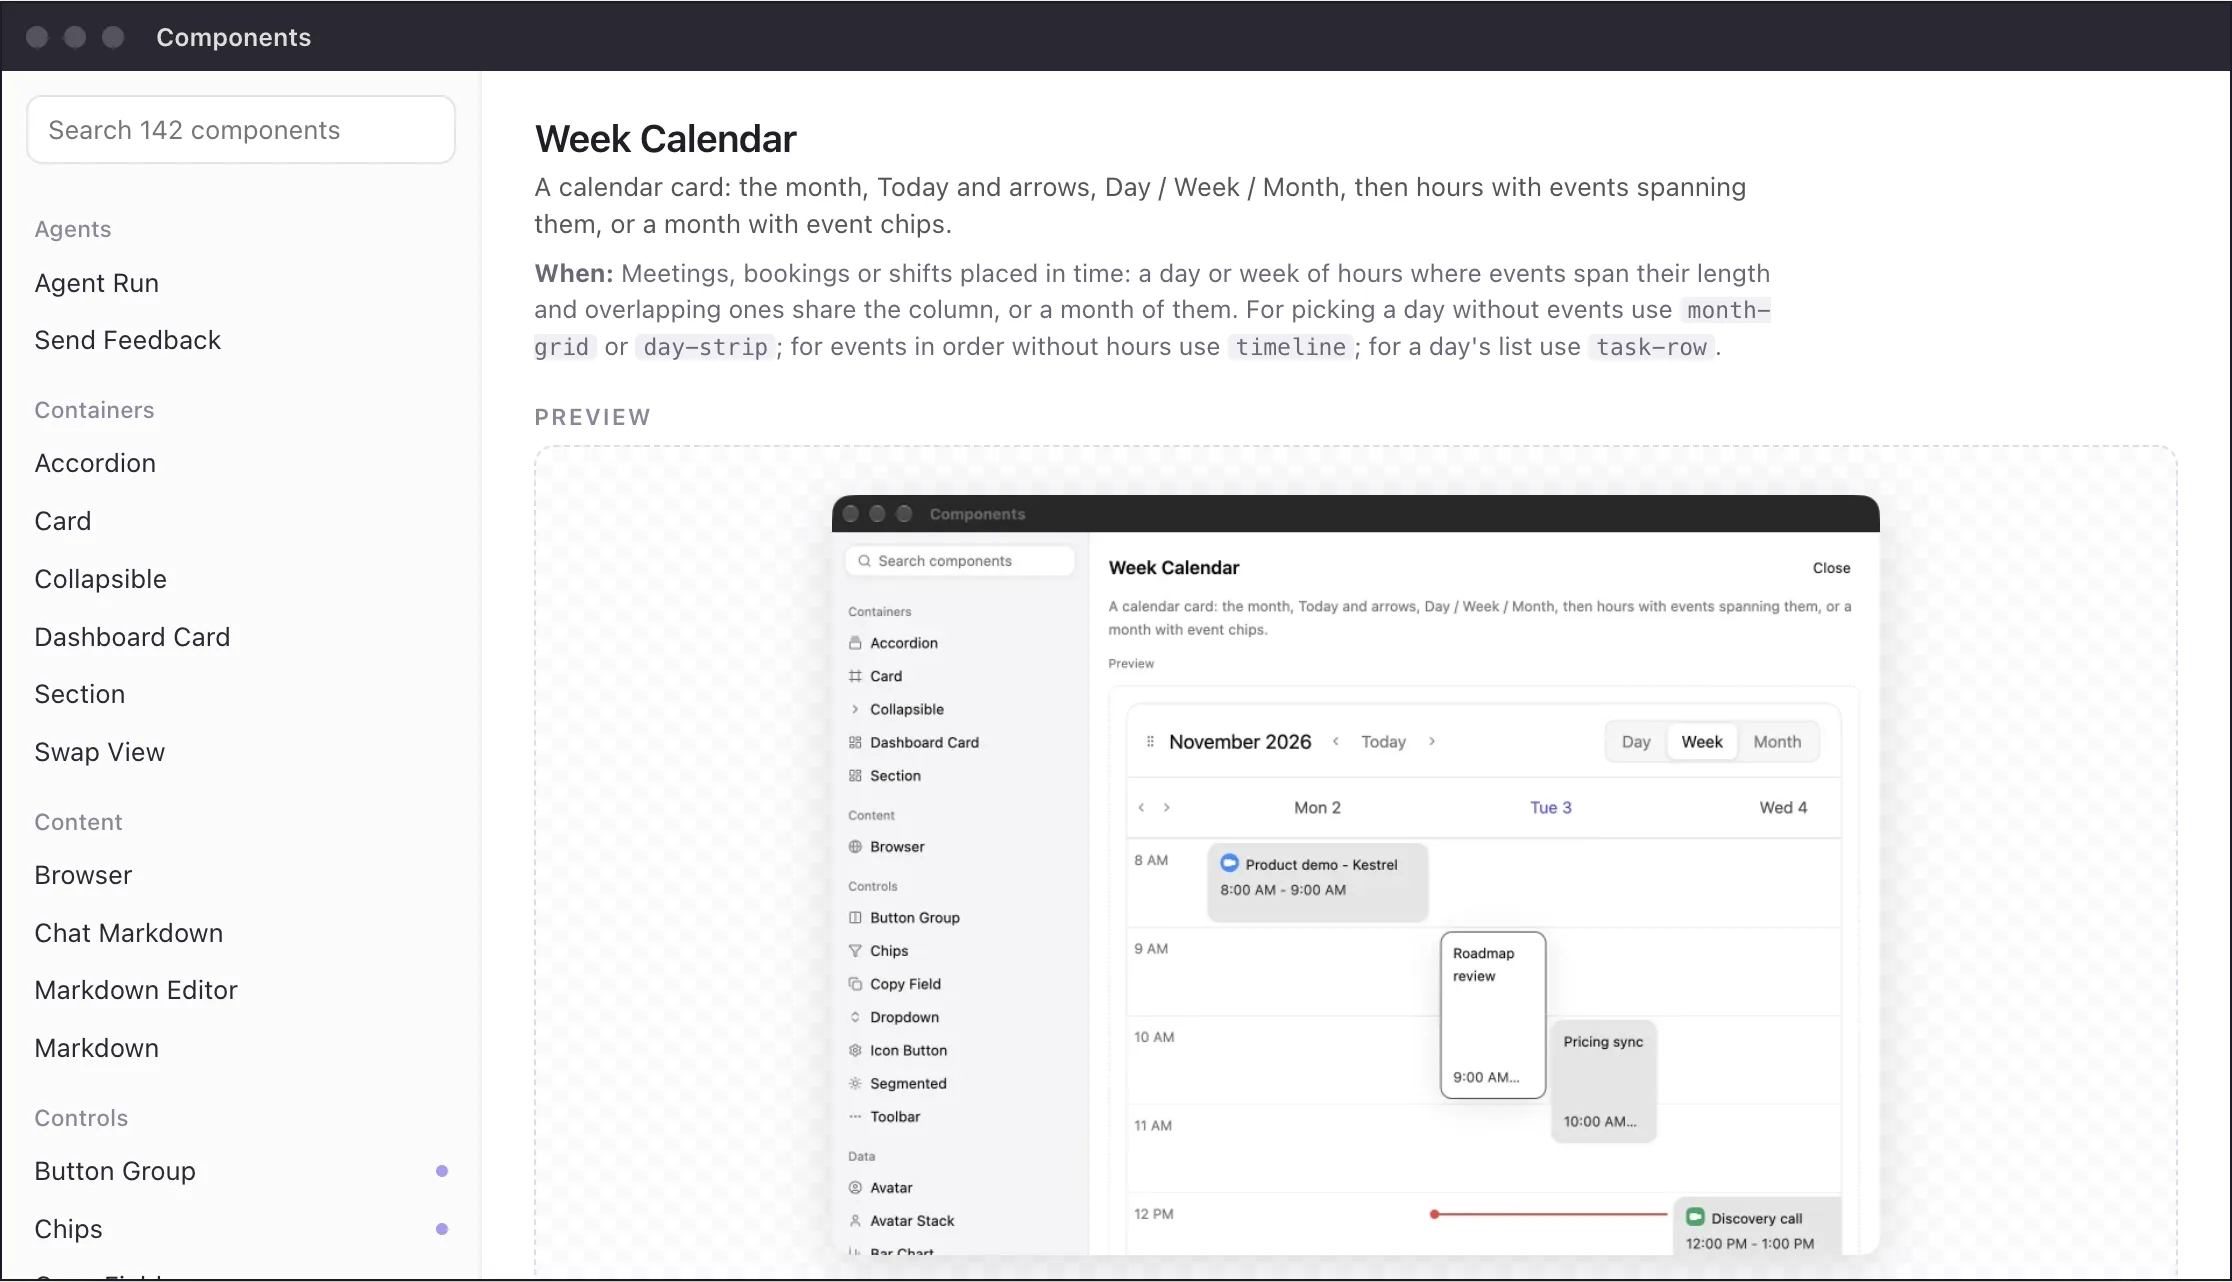
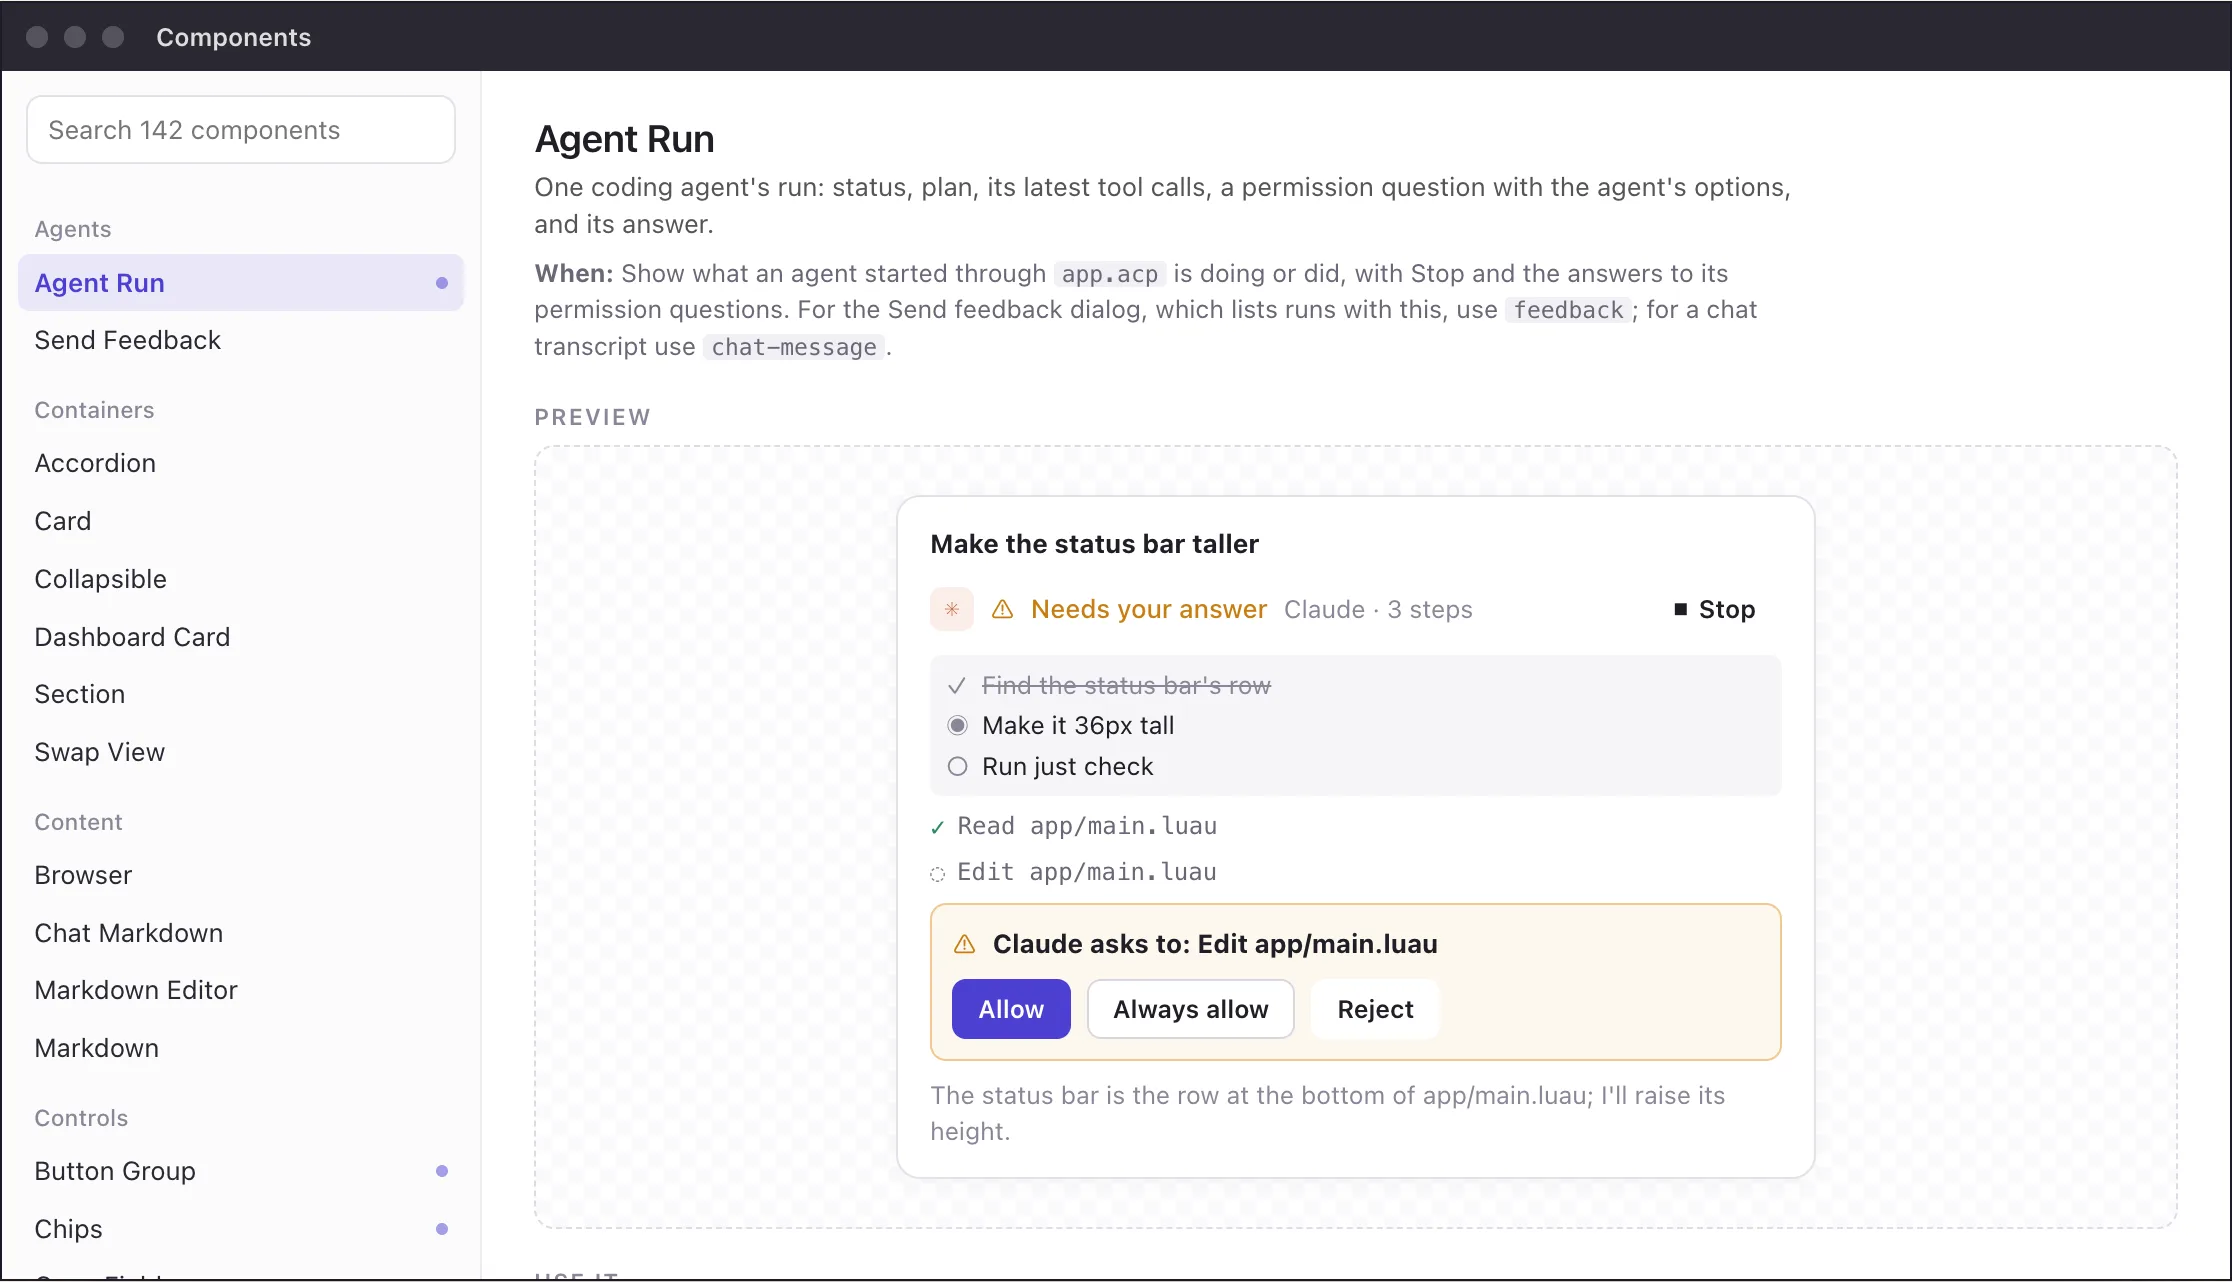
Show agents and terminals first and a runnable command per plate
- The Components window on the home page opens on Agent Run instead of
  the week calendar, and Agent Run, Terminal and Ghostty Terminal get
  previews drawn in HTML (Agent Run from its own example).
- The plates drop their "--profile name" tags. The full-screen viewer
  shows "moonframe app link examples/<id> --yes && moonframe --profile
  <id>" under the caption, with a Copy button, since --profile alone
  only opens an app that is already installed.
- "What you get" columns start at the same height: the gap between items
  is padding on each item, so a bottom margin no longer carries over a
  column break and pushes the next column down.
- The docs search box centers its ⌘K hint vertically.

diff --git a/website/site/index.html b/website/site/index.html
@@ -168,7 +168,7 @@
   .lb { position:fixed; inset:0; z-index:50; background:#1c120bf2; display:none; flex-direction:column; align-items:center; justify-content:center; padding:40px 60px 30px; font-family:var(--sans); color:#eee }
   .lb.on { display:flex }
   .lb-frame { position:relative; max-width:min(1500px, 100%); display:grid }
-  .lb-frame img { grid-area:1/1; max-width:100%; max-height:calc(100vh - 140px); object-fit:contain; display:block; filter:drop-shadow(0 30px 50px #000a) }
+  .lb-frame img { grid-area:1/1; max-width:100%; max-height:calc(100vh - 190px); object-fit:contain; display:block; filter:drop-shadow(0 30px 50px #000a) }
   .lb-frame img.lo { filter:blur(6px) saturate(.8) drop-shadow(0 30px 50px #000a); transition:opacity .3s }
   .lb-frame img.hi { opacity:0; transition:opacity .35s } .lb-frame img.hi.ready { opacity:1 }
   .lb-bar { position:absolute; left:0; right:0; bottom:-14px; height:3px; background:#ffffff22; border-radius:2px; overflow:hidden; transition:opacity .4s }
@@ -177,6 +177,10 @@
   @keyframes lbi { from { transform:translateX(-100%) } to { transform:translateX(340%) } }
   .lb-cap { margin-top:28px; display:flex; gap:16px; align-items:center; font-size:14px; color:#bbb }
   .lb-cap b { color:#fff; font:italic 500 20px var(--serif) } .lb-cap code { background:#ffffff14; color:#ddd }
+  .lb .lb-cmd { position:static; width:auto; height:auto; border-radius:4px; margin-top:12px; display:flex; gap:12px; align-items:center; padding:8px 10px 8px 14px; font:13px var(--mono); color:#ddd; background:#ffffff14 }
+  .lb .lb-cmd[hidden] { display:none }
+  .lb-cmd code { background:none; color:inherit; padding:0; user-select:all }
+  .lb-cmd span { font:600 11px var(--sans); letter-spacing:.08em; text-transform:uppercase; color:#f2b33d }
   .lb-pct { font:12px var(--mono); color:#f2b33d; min-width:120px }
   .lb-pct .retry { position:static; width:auto; height:auto; border-radius:4px; font:600 12px var(--sans); padding:4px 10px; margin-left:8px; background:#f2b33d; color:#1c120b }
   .lb button { position:absolute; background:#ffffff14; color:#fff; border:0; width:44px; height:44px; border-radius:50%; font-size:20px; cursor:pointer }
@@ -187,8 +191,8 @@
 
   .cols { columns:3; column-gap:44px; column-rule:1px solid var(--rule); margin-top:44px }
   .cols h3 { font:600 13px var(--sans); letter-spacing:.1em; text-transform:uppercase; margin-bottom:6px; break-after:avoid }
-  .cols > div { break-inside:avoid }
-  .cols p { font-size:16px; margin-bottom:26px; color:var(--ink2) }
+  .cols > div { break-inside:avoid; padding-bottom:26px }
+  .cols p { font-size:16px; color:var(--ink2) }
   .pull { font-size:42px; line-height:1.2; font-style:italic; text-align:center; max-width:880px; margin:0 auto; padding:56px 0 }
 
   footer { border-top:2px solid var(--ink); padding:28px 0 56px; display:grid; grid-template-columns:2fr 1fr 1fr 1fr; gap:32px; font:14px var(--sans); color:var(--dim) }
@@ -226,7 +230,7 @@
     .installbar { flex-direction:column; align-items:flex-start } .installbar pre { white-space:pre-wrap; word-break:break-all; font-size:13px }
     .pull { font-size:28px; padding:40px 0 }
     footer { grid-template-columns:1fr 1fr }
-    .lb { padding:56px 10px 20px } .lb .prev, .lb .next { top:auto; bottom:14px } .lb-cap { flex-direction:column; text-align:center; gap:6px }
+    .lb { padding:56px 10px 20px } .lb .prev, .lb .next { top:auto; bottom:14px } .lb-cap { flex-direction:column; text-align:center; gap:6px } .lb .lb-cmd { max-width:100%; text-align:left } .lb-cmd code { white-space:normal; word-break:break-all }
   }
 </style>
 <body>
@@ -373,12 +377,13 @@ just install   # into /Applications</pre></div>
   <button class="x" aria-label="Close">✕</button><button class="prev" aria-label="Previous">‹</button><button class="next" aria-label="Next">›</button>
   <div class="lb-frame"><img class="lo" id="lb-lo" alt=""><img class="hi" id="lb-hi" alt=""><div class="lb-bar" id="lb-bar"><i></i></div></div>
   <div class="lb-cap"><span id="lb-cap"></span><span class="lb-pct" id="lb-pct"></span></div>
+  <button class="lb-cmd" id="lb-cmd" title="Copy the command" hidden><code></code><span>Copy</span></button>
 </div>
 
 <script src="data/components.js"></script>
 <script src="components-browser.js"></script>
 <script>
-mountComponents(document.getElementById("cbrowser"), "week-calendar");
+mountComponents(document.getElementById("cbrowser"), "agent-run");
 
 // The apps in examples/ that have a screenshot, with the README's one-liners.
 const APPS = [
@@ -408,12 +413,12 @@ const APPS = [
 ];
 const ROMAN = ["I","II","III","IV","V","VI","VII","VIII","IX","X","XI","XII","XIII","XIV","XV","XVI","XVII","XVIII","XIX","XX","XXI","XXII","XXIII"];
 document.getElementById("plates").innerHTML = APPS.map(([id, title, d], i) =>
-  `<figure class="plate" data-i="${i}"><img src="img/${id}.webp" alt="${title}" loading="lazy"><p><span>PL. ${ROMAN[i]}</span><b>${title}.</b> ${d[0].toUpperCase() + d.slice(1)}. <code>--profile ${id}</code></p></figure>`).join("");
+  `<figure class="plate" data-i="${i}"><img src="img/${id}.webp" alt="${title}" loading="lazy"><p><span>PL. ${ROMAN[i]}</span><b>${title}.</b> ${d[0].toUpperCase() + d.slice(1)}.</p></figure>`).join("");
 
 // Plates open full size. The thumbnail shows at once, blurred; the full PNG
 // streams in behind it with a progress bar, then fades over it.
 const lb = document.getElementById("lb"), lo = document.getElementById("lb-lo"), hi = document.getElementById("lb-hi"),
-      bar = document.getElementById("lb-bar"), pct = document.getElementById("lb-pct"), cap = document.getElementById("lb-cap");
+      bar = document.getElementById("lb-bar"), pct = document.getElementById("lb-pct"), cap = document.getElementById("lb-cap"), cmd = document.getElementById("lb-cmd");
 let lbIndex = -1, lbToken = 0;
 const kb = n => n > 1048576 ? (n / 1048576).toFixed(1) + " MB" : Math.round(n / 1024) + " KB";
 // One download per image, shared by everyone who asks for it (the viewer and
@@ -442,7 +447,9 @@ function loadFull(url, onProgress) {
 }
 // A set of images the viewer steps through: { lo, full, caption }.
 const PLATES = APPS.map(([id, title, d]) => ({ lo:`img/${id}.webp`, full:`img/full/${id}.png`,
-  caption:`<b>${title}</b> ${d[0].toUpperCase() + d.slice(1)}. <code>moonframe --profile ${id}</code>` }));
+  caption:`<b>${title}</b> ${d[0].toUpperCase() + d.slice(1)}.`,
+  // Run from a clone: link the example in place, then open its profile.
+  cmd:`moonframe app link examples/${id} --yes && moonframe --profile ${id}` }));
 const SHOTS = [["week-calendar","Week calendar","Day, week and month, with events"],["palette","Command palette","Spotlight, classic, compact or cards"],
   ["table","Table","Sortable, filterable, paged"],["notification-drawer","Notification drawer","Behind a bell, with a badge"]]
   .map(([id, title, d]) => ({ lo:`img/c-${id}.webp`, full:`img/full/c-${id}.png`, caption:`<b>${title}</b> ${d}.` }));
@@ -453,6 +460,7 @@ async function openPlate(i, set = lbSet) {
   lb.classList.add("on"); document.body.style.overflow = "hidden";
   lo.src = item.lo; lo.style.opacity = 1; lo.style.filter = ""; hi.classList.remove("ready"); hi.removeAttribute("src");
   cap.innerHTML = `${item.caption} · ${lbIndex + 1} of ${set.length}`;
+  cmd.hidden = !item.cmd; cmd.firstElementChild.textContent = item.cmd || ""; cmd.lastElementChild.textContent = "Copy";
   bar.style.opacity = 1; bar.classList.remove("indet"); bar.firstElementChild.style.width = "0"; pct.textContent = "Loading full size…";
   const src = await loadFull(item.full, (got, total) => {
     if (token !== lbToken) return;
@@ -478,6 +486,10 @@ function closePlate() { lb.classList.remove("on"); document.body.style.overflow 
 document.getElementById("plates").addEventListener("click", e => { const f = e.target.closest(".plate"); if (f) openPlate(+f.dataset.i, PLATES); });
 [...document.querySelectorAll("#cstrip img")].forEach((img, i) => img.onclick = () => openPlate(i, SHOTS));
 lb.querySelector(".x").onclick = closePlate;
+cmd.onclick = async () => {
+  try { await navigator.clipboard.writeText(cmd.firstElementChild.textContent); cmd.lastElementChild.textContent = "Copied"; }
+  catch { getSelection().selectAllChildren(cmd.firstElementChild); }
+};
 lb.querySelector(".prev").onclick = () => openPlate(lbIndex - 1);
 lb.querySelector(".next").onclick = () => openPlate(lbIndex + 1);
 lb.addEventListener("click", e => { if (e.target === lb) closePlate(); });

diff --git a/website/site/components-browser.js b/website/site/components-browser.js
@@ -56,7 +56,28 @@
     "breadcrumbs": () => `<div class="cb-row"><span class="cb-muted">‹</span><span>group/sub/app</span><span class="cb-muted">/</span><span>Merge requests</span><span class="cb-muted">/</span><b>!2 Draft: cache MR pages</b><span class="cb-muted" style="margin-left:14px">2 of 3</span></div>`,
     "search-field": () => `<div class="cb-input" style="width:260px">⌕ <span class="cb-muted">Search…</span></div>`,
     "spotlight-bars": null,
+    // Drawn from the component's own example in app/components/agent-run.luau.
+    "agent-run": () => `<div class="cb-run">
+      <b>Make the status bar taller</b>
+      <div class="cb-row"><span class="cb-ic" style="background:#d9775722;color:#c4623f">✳</span><span style="color:#c77d12">⚠</span><span style="color:#c77d12;font-weight:500">Needs your answer</span><span class="cb-muted">Claude · 3 steps</span><span class="cb-btn" style="margin-left:auto;border-color:transparent">◼ Stop</span></div>
+      <div class="cb-plan"><div><span>✓</span><s>Find the status bar's row</s></div><div><span>◉</span>Make it 36px tall</div><div><span>○</span>Run just check</div></div>
+      <div class="cb-tool"><span class="cb-good">✓</span>Read app/main.luau</div><div class="cb-tool"><span class="cb-muted">◌</span>Edit app/main.luau</div>
+      <div class="cb-ask"><div class="cb-row"><span style="color:#c77d12">⚠</span><b>Claude asks to: Edit app/main.luau</b></div><div class="cb-row"><span class="cb-btn p">Allow</span><span class="cb-btn">Always allow</span><span class="cb-btn" style="border-color:transparent">Reject</span></div></div>
+      <div class="cb-muted">The status bar is the row at the bottom of app/main.luau; I'll raise its height.</div></div>`,
+    "terminal": () => term("alacritty_terminal"),
+    "ghostty-terminal": () => term("libghostty-vt"),
   };
+  // A shell mid-session; the engine named in the corner is the only difference.
+  function term(engine) {
+    const g = s => `<span style="color:#7ec699">${s}</span>`, d = s => `<span style="color:#7d7a8c">${s}</span>`, a = s => `<span style="color:#f2b33d">${s}</span>`;
+    return `<div class="cb-term"><div class="cb-term-bar"><span>zsh — ~/code/moonframe</span><span>${engine}</span></div><pre>${a("~/code/moonframe")} ${d("main")} ❯ cargo build --release
+   ${g("Compiling")} moonframe-luau v0.4.0
+   ${g("Compiling")} moonframe-app v0.4.0
+    ${g("Finished")} \`release\` profile [optimized] in 41.2s
+${a("~/code/moonframe")} ${d("main")} ❯ moonframe app link examples/ledger --yes
+Linked ${g("ledger")} → examples/ledger
+${a("~/code/moonframe")} ${d("main")} ❯ <i></i></pre></div>`;
+  }
 
   const STYLE = `
   .cb { --mono:"JetBrains Mono", ui-monospace, "SF Mono", Menlo, monospace; font:13px/1.45 Inter, system-ui, -apple-system, sans-serif; color:#1f1e26; background:#fff; border:1px solid #1d1b26; box-shadow:0 30px 60px -30px #1d1b2666; display:grid; grid-template-rows:34px 1fr; height:640px; text-align:left }
@@ -86,7 +107,7 @@
   @media (max-width:720px) {
     .cb { height:auto } .cb-main { grid-template-columns:1fr }
     .cb-side { border-right:0; border-bottom:1px solid #ececf1; max-height:240px }
-    .cb-detail { padding:18px 16px 24px } .cb-banner { width:auto; flex-wrap:wrap }
+    .cb-detail { padding:18px 16px 24px } .cb-banner, .cb-run, .cb-term { width:auto; flex-wrap:wrap }
   }
   .cb-props { width:100%; border-collapse:collapse; font-size:12.5px }
   .cb-props td { border-top:1px solid #ececf1; padding:6px 10px 6px 0; vertical-align:top } .cb-props td:first-child { font-family:var(--mono); color:#4b3fd1; white-space:nowrap; width:1% }
@@ -119,6 +140,15 @@
   .cb-radio { width:16px; height:16px; border-radius:50%; border:1.5px solid #bbb; flex-shrink:0; margin-top:3px } .cb-radio.on { border:5px solid #4b3fd1 }
   .cb-tag { font:12px var(--mono); background:#f0eff4; padding:2px 8px; border-radius:5px }
   .cb-bubble { background:#d64545; color:#fff; font-weight:700; font-size:11.5px; border-radius:999px; padding:2px 8px }
+  .cb-run { width:460px; display:flex; flex-direction:column; gap:8px; background:#fff; border:1px solid #e3e2ea; border-radius:12px; padding:14px 16px; box-shadow:0 2px 8px #0000000a }
+  .cb-plan { background:#f0eff499; border-radius:6px; padding:6px 8px; font-size:12.5px; display:grid; gap:2px } .cb-plan span { color:#8a8798; display:inline-block; width:18px } .cb-plan s { color:#8a8798 }
+  .cb-tool { font:12px var(--mono); color:#6b6676; display:flex; gap:6px }
+  .cb-ask { border:1px solid #e59a3580; background:#e59a3514; border-radius:8px; padding:10px; display:grid; gap:8px }
+  .cb-term { width:540px; background:#1b1a24; border-radius:10px; overflow:hidden; box-shadow:0 10px 30px -10px #0006 }
+  .cb-term-bar { display:flex; justify-content:space-between; padding:7px 12px; font-size:11.5px; color:#8a8798; background:#24232e }
+  .cb-term pre { margin:0; padding:12px 14px 14px; font:12px/1.6 var(--mono); color:#d8d6f0; white-space:pre-wrap }
+  .cb-term pre i { display:inline-block; width:7px; height:14px; background:#d8d6f0; vertical-align:-2px; animation:cbblink 1s steps(1) infinite }
+  @keyframes cbblink { 50% { opacity:0 } }
   .cb-input { border:1px solid #e3e2ea; border-radius:8px; padding:7px 10px; background:#fff }
   `;
 
@@ -137,7 +167,7 @@
     root.innerHTML = `<div class="cb"><div class="cb-title"><i></i><i></i><i></i><span>Components</span></div>
       <div class="cb-main"><div class="cb-side"><input class="cb-search" placeholder="Search ${all.length} components"><div class="cb-list"></div></div><div class="cb-detail"></div></div></div>`;
     const list = root.querySelector(".cb-list"), detail = root.querySelector(".cb-detail"), search = root.querySelector(".cb-search");
-    let current = initial || "week-calendar";
+    let current = initial || "agent-run";
 
     function drawList() {
       const q = search.value.trim().toLowerCase();

diff --git a/website/site/docs/index.html b/website/site/docs/index.html
@@ -37,12 +37,12 @@
   .top .name { font:italic 600 22px var(--serif); display:flex; gap:9px; align-items:center }
   .top .name img { width:24px; border-radius:6px }
   .top .sec { font:600 12px var(--sans); letter-spacing:.12em; text-transform:uppercase; color:var(--acc); border-left:1px solid var(--rule); padding-left:12px }
-  .search { margin-left:28px; width:320px; border:1px solid var(--rule); background:#fff; border-radius:4px; padding:6px 10px; color:#999; font-size:13.5px; display:flex; justify-content:space-between }
+  .search { margin-left:28px; width:320px; border:1px solid var(--rule); background:#fff; border-radius:4px; padding:6px 10px; color:#999; font-size:13.5px; display:flex; justify-content:space-between; align-items:center; gap:8px }
   .menu { display:none; font:600 13px var(--sans); background:none; border:1px solid var(--rule); border-radius:4px; padding:6px 10px; color:var(--ink); cursor:pointer }
   .search input { border:0; outline:none; background:none; font:inherit; color:var(--ink); flex:1; min-width:0 }
   .none { color:var(--dim); font:13px var(--sans); padding:4px 10px }
   html { scroll-padding-top:70px }
-  .search kbd { font:11px var(--mono); border:1px solid var(--rule); border-radius:3px; padding:0 5px }
+  .search kbd { font:11px var(--mono); border:1px solid var(--rule); border-radius:3px; padding:2px 5px; line-height:1.3; flex-shrink:0 }
   .top .r { margin-left:auto; display:flex; gap:22px; font-size:14px; color:var(--dim) }
   .top .r a.on { color:var(--ink); font-weight:600 }
   .layout { display:grid; grid-template-columns:260px minmax(0, 1fr) 220px; max-width:1400px; margin:0 auto }
